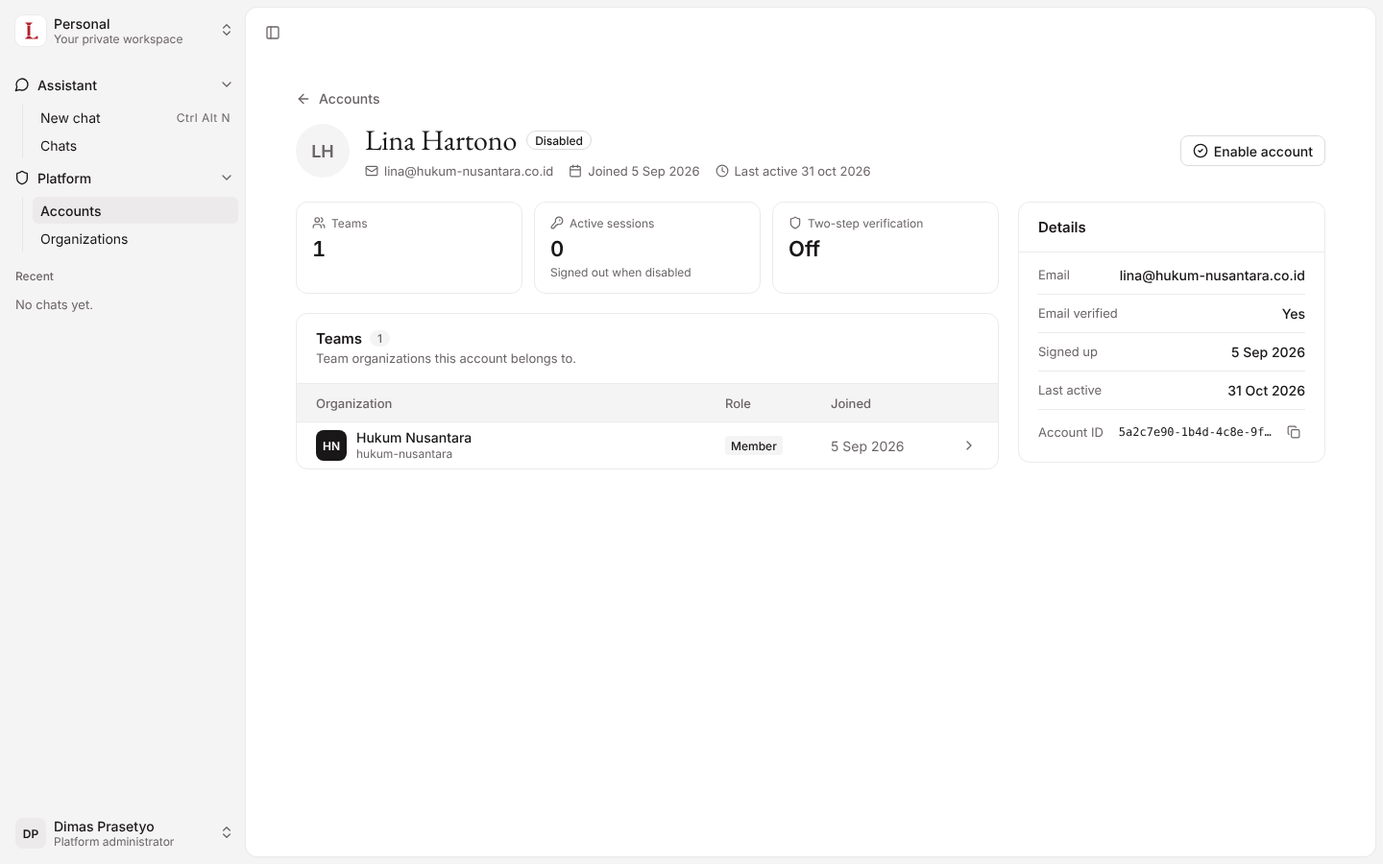
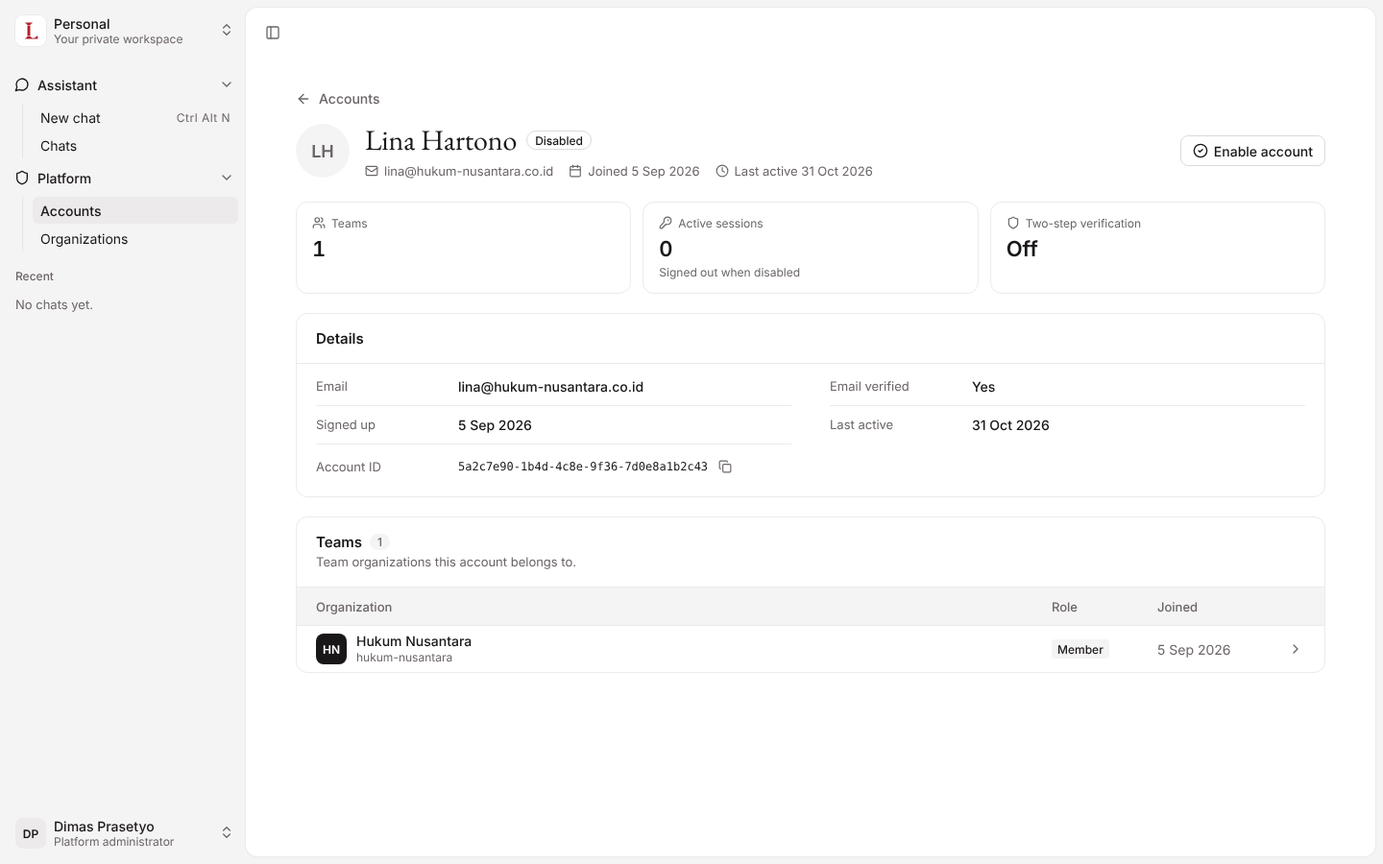
docs(f4.3): record page in one column with two-column Details, sticky interactive floating action bar in the kit
Claude-Session: https://claude.ai/code/session_01XeskNDwAETUV7tAfJw72N6

diff --git a/docs/design/f4.1-prototype/source/prototype.html b/docs/design/f4.1-prototype/source/prototype.html
@@ -364,7 +364,7 @@ mark{background:var(--mark);color:inherit;border-radius:3px;padding:0 2px}
 .dv-tag{display:inline-flex;align-items:center;height:20px;padding:0 6px;border-radius:4px;background:var(--muted);font-size:12px;font-weight:500;color:var(--fg)}
 .dv-dot{display:inline-flex;align-items:center;gap:6px}.dv-dot::before{content:'';width:6px;height:6px;border-radius:999px;background:var(--mfg)}.dv-dot.ok::before{background:#2F8F5B}
 .dv-link{color:var(--fg);text-decoration:underline;text-underline-offset:3px;text-decoration-color:var(--input)}
-.dv-bar{position:absolute;left:50%;bottom:62px;transform:translateX(-50%);display:flex;align-items:center;gap:2px;padding:5px;border-radius:12px;background:var(--fg);color:var(--bg);box-shadow:0 12px 32px -10px rgba(8,6,6,.45);font-size:13px;z-index:15;white-space:nowrap}
+.dv-bar{position:sticky;bottom:20px;align-self:center;margin-top:-8px;display:flex;align-items:center;gap:2px;padding:5px;border-radius:12px;background:var(--fg);color:var(--bg);box-shadow:0 12px 32px -10px rgba(8,6,6,.45);font-size:13px;z-index:15;white-space:nowrap}
 .dv-bar .cnt{display:inline-flex;align-items:center;gap:8px;padding:0 10px 0 8px;font-weight:500}.dv-bar .cnt .dv-cb{border-color:var(--bg);background:var(--bg);color:var(--fg)}
 .dv-bar .sep{width:1px;height:18px;background:color-mix(in srgb,var(--bg) 22%,transparent);margin:0 4px}
 .dv-bar .bb{all:unset;display:inline-flex;align-items:center;gap:6px;height:30px;padding:0 10px;border-radius:8px;font-weight:500;cursor:pointer}.dv-bar .bb:hover{background:color-mix(in srgb,var(--bg) 14%,transparent)}
@@ -385,8 +385,8 @@ mark{background:var(--mark);color:inherit;border-radius:3px;padding:0 2px}
 .dv-dh .meta{font-size:13px;color:var(--mfg);display:flex;gap:16px;flex-wrap:wrap}.dv-dh .meta span{display:inline-flex;align-items:center;gap:6px}
 .dv-dh .acts{display:flex;gap:8px;align-items:center;flex:none;position:relative}
 .dv-split{display:grid;grid-template-columns:minmax(0,1fr) 320px;gap:20px;align-items:start}.dv-split>div{display:flex;flex-direction:column;gap:20px;min-width:0}
-.dv-props{padding:4px 20px 8px}.dv-prop{display:flex;justify-content:space-between;align-items:center;gap:16px;padding:11px 0;border-top:1px solid var(--border);font-size:14px;min-width:0}.dv-prop:first-child{border-top:0}
-.dv-prop span{color:var(--mfg);font-size:13px;flex:none}.dv-prop b{font-weight:500;text-align:right;min-width:0;overflow:hidden;text-overflow:ellipsis;white-space:nowrap}.dv-prop b.cp{display:flex;align-items:center;gap:6px}
+.dv-props{padding:4px 20px 8px;display:grid;grid-template-columns:1fr 1fr;column-gap:40px}.dv-props .dv-prop:nth-child(2){border-top:0}.dv-prop{display:grid;grid-template-columns:132px minmax(0,1fr);align-items:center;gap:16px;padding:11px 0;border-top:1px solid var(--border);font-size:14px;min-width:0}.dv-prop:first-child{border-top:0}
+.dv-prop span{color:var(--mfg);font-size:13px;flex:none}.dv-prop b{font-weight:500;text-align:left;min-width:0;overflow:hidden;text-overflow:ellipsis;white-space:nowrap}.dv-prop b.cp{display:flex;align-items:center;gap:6px}
 .dv-prop code{font-family:ui-monospace,SFMono-Regular,Menlo,monospace;font-size:12px;font-weight:400;overflow:hidden;text-overflow:ellipsis}.dv-prop .ib{width:24px;height:24px;color:var(--mfg);flex:none}
 .dv-acts{padding:4px 20px 16px}.dv-act{display:flex;gap:12px;align-items:flex-start;padding:12px 0;border-top:1px solid var(--border)}.dv-act:first-child{border-top:0}
 .dv-act .ic{width:32px;height:32px;border-radius:8px;background:var(--muted);display:flex;align-items:center;justify-content:center;flex:none}.dv-act.dz .ic{background:var(--flag);color:var(--redtext)}
@@ -401,11 +401,11 @@ mark{background:var(--mark);color:inherit;border-radius:3px;padding:0 2px}
 .dv-mrow .t{flex:1;min-width:0;display:flex;flex-direction:column;gap:3px;line-height:1.3}.dv-mrow b{font-weight:500;font-size:14px;overflow:hidden;text-overflow:ellipsis;white-space:nowrap}
 .dv-mrow small{font-size:12px;color:var(--mfg);overflow:hidden;text-overflow:ellipsis;white-space:nowrap}.dv-mrow .s{font-size:13px;color:var(--mfg);display:flex;align-items:center;gap:6px;flex-wrap:wrap}
 .app.mobile .dv-foot{padding:10px 12px 10px 16px}.app.mobile .dv-foot .dv-per{display:none}
-.app.mobile .dv-bar{bottom:60px}
+.app.mobile .dv-bar{bottom:16px;max-width:calc(100% - 8px);overflow-x:auto}.dv-bar[hidden]{display:none}
 .app.mobile .dv-stats{grid-template-columns:1fr!important;gap:8px}.app.mobile .dv-stat{display:grid;grid-template-columns:minmax(0,1fr) auto;column-gap:12px;row-gap:2px;align-items:center;padding:12px 14px}.app.mobile .dv-stat b{grid-column:2;grid-row:1/3;font-size:18px;text-align:right}.app.mobile .dv-stat .l{grid-column:1;grid-row:1}.app.mobile .dv-stat small{grid-column:1;grid-row:2;margin:0}
 .app.mobile .dv-dh{flex-wrap:wrap}.app.mobile .dv-dh .av{width:48px;height:48px;font-size:16px}.app.mobile .dv-dh .ptitle{font-size:26px}.app.mobile .dv-dh .acts{width:100%;flex-wrap:wrap}
 .app.mobile .dv-split{grid-template-columns:1fr}
-.app.mobile .dv-props,.app.mobile .dv-acts{padding-left:16px;padding-right:16px}
+.app.mobile .dv-props,.app.mobile .dv-acts{padding-left:16px;padding-right:16px}.app.mobile .dv-props{grid-template-columns:1fr}.app.mobile .dv-prop{grid-template-columns:104px minmax(0,1fr);gap:12px}.app.mobile .dv-props .dv-prop:nth-child(2){border-top:1px solid var(--border)}
 .dv-tabs{display:flex;gap:4px;border-bottom:1px solid var(--border);margin-bottom:-4px}
 .dv-tabs button{all:unset;display:inline-flex;align-items:center;gap:8px;height:40px;padding:0 4px;margin-right:16px;font-size:14px;font-weight:500;color:var(--mfg);border-bottom:2px solid transparent;margin-bottom:-1px;cursor:pointer}
 .dv-tabs button.on{color:var(--fg);border-bottom-color:var(--fg)}.dv-tabs .n{font-size:12px;font-weight:500;background:var(--muted);color:var(--mfg);border-radius:999px;padding:1px 8px}
@@ -816,18 +816,18 @@ function dvTable({cols,rows,select=false,selected=[],hover=-1}){
  return `<table class="dv-table">${head}<tbody>${body}</tbody></table>${mob}`;
 }
 const dvFoot=({count,page=1,pages=1,per=10})=>`<div class="dv-foot"><span>${count}</span><span class="sp"></span><span class="dv-per">Rows per page <span class="dv-sel">${per}${sv('chev',14)}</span></span><span>Page ${page} of ${pages}</span><span class="dv-pg"><button class="ib ${page===1?'off':''}" aria-label="First page">${sv('left2',16)}</button><button class="ib ${page===1?'off':''}" aria-label="Previous page">${sv('left',16)}</button><button class="ib ${page===pages?'off':''}" aria-label="Next page">${sv('right',16)}</button><button class="ib ${page===pages?'off':''}" aria-label="Last page">${sv('right2',16)}</button></span></div>`;
-const dvBar=(n,acts)=>`<div class="dv-bar" role="toolbar" aria-label="Selected rows"><span class="cnt">${dvCb(true)}${n} selected</span><span class="sep"></span>${acts.map(([ic,t,dz])=>`<button class="bb ${dz?'dz':''}">${sv(ic,15)}${t}</button>`).join('')}<span class="sep"></span><button class="bb x" aria-label="Clear selection">${sv('x',15)}</button></div>`;
+const dvBar=(n,acts)=>`<div class="dv-bar" role="toolbar" aria-label="Selected rows" ${n?'':'hidden'}><span class="cnt">${dvCb(true)}<span class="k">${n}</span> selected</span><span class="sep"></span>${acts.map(([ic,t,dz])=>`<button class="bb ${dz?'dz':''}">${sv(ic,15)}${t}</button>`).join('')}<span class="sep"></span><button class="bb x" aria-label="Clear selection">${sv('x',15)}</button></div>`;
 const dvEmpty=(icon,title,text,btn='')=>`<div class="dv-empty"><span class="ic">${sv(icon,20)}</span><h3>${title}</h3><p>${text}</p>${btn}</div>`;
 const perr=t=>`<div class="erow" role="alert"><span class="ic">${sv('alert',18)}</span><span class="tx">${t}</span><button class="btn outline" style="flex:none">${sv('regen',14)}Try again</button></div>`;
 const dvError=t=>`<div class="dv-err">${perr(t)}</div>`;
 const dvSkel=(cols,n,widths)=>({cols,rows:Array.from({length:n},(_,i)=>({cells:cols.map((c,j)=>c.cls==='w-menu'?'':`<div class="skel" style="width:${widths[(i+j)%widths.length]}%;${c.num?'margin-left:auto':''}"></div>`),m:{title:`<div class="skel" style="width:${widths[i%widths.length]}%;height:14px"></div>`,meta:`<div class="skel" style="width:40%"></div>`,menu:false}}))});
-const dvCard=({head='',tool='',table='',body='',bar='',foot=''})=>`<section class="dv-card">${head}${tool}${table}${body}${foot}${bar}</section>`;
+const dvCard=({head='',tool='',table='',body='',bar='',foot=''})=>`<section class="dv-card">${head}${tool}${table}${body}${foot}</section>${bar}`;
 const dvCHead=(t,d='',right='',{n='',ruled=false}={})=>`<div class="dv-chead ${ruled?'ruled':''}"><div><h2>${t}${n!==''?`<span class="n">${n}</span>`:''}</h2>${d?`<p>${d}</p>`:''}</div>${right}</div>`;
 const dvTabs=(tabs,cur)=>`<div class="dv-tabs" role="tablist">${tabs.map(([t,n])=>`<button role="tab" aria-selected="${t===cur}" class="${t===cur?'on':''}">${t}${n!==undefined?`<span class="n">${n}</span>`:''}</button>`).join('')}</div>`;
 const dvPage=(title,desc,acts,parts)=>`<div class="dv-page"><div class="dv-ph"><div><h1 class="ptitle">${title}</h1>${desc?`<p>${desc}</p>`:''}</div>${acts?`<div class="acts">${acts}</div>`:''}</div>${parts}</div>`;
 const dvHeader=({back,av,sq,title,badges='',meta=[],acts=''})=>`${back?`<a class="slink" href="#" style="align-self:flex-start;margin:0 0 -8px -10px">${sv('back',16)}${back}</a>`:''}<div class="dv-dh"><span class="av ${sq?'sq':''}">${av}</span><div class="mid"><div class="row"><h1 class="ptitle">${title}</h1>${badges}</div><div class="meta">${meta.map(([ic,t])=>`<span>${sv(ic,14)}${t}</span>`).join('')}</div></div>${acts?`<div class="acts">${acts}</div>`:''}</div>`;
 const dvStats=items=>`<div class="dv-stats" style="--n:${items.length}">${items.map(([ic,l,v,s])=>`<div class="dv-stat"><span class="l">${sv(ic,14)}${l}</span><b>${v}</b>${s?`<small>${s}</small>`:''}</div>`).join('')}</div>`;
-const dvSplit=(main,aside)=>`<div class="dv-split"><div>${main}</div><div>${aside}</div></div>`;
+const dvSplit=(main,aside)=>{const m=main.match(/^(<div class="dv-stats"[\s\S]*?<\/div><\/div>)([\s\S]*)$/);return m?m[1]+aside+m[2]:aside+main;};
 const dvProps=(title,rows)=>dvCard({head:dvCHead(title,'','',{ruled:true}),body:`<div class="dv-props">${rows.map(([k,v,copy])=>`<div class="dv-prop"><span>${k}</span><b class="${copy?'cp':''}">${copy?`<code>${v}</code><button class="ib" aria-label="Copy ${k}">${sv('copy',14)}</button>`:v}</b></div>`).join('')}</div>`});
 const btn=(ic,t,cls='outline')=>`<button class="btn ${cls}">${ic?sv(ic,16):''}${t}</button>`;
 
@@ -888,7 +888,7 @@ function platformAccountDetail(kind){
   table:teams.length?dvTable({cols:tcols,rows:teams.map(([n,s,i,r,j])=>({cells:[C.id(n,s,{av:i,sq:true}),C.tag(r),j,C.open(n)],m:{lead:`<span class="dv-av sq">${i}</span>`,title:n,sub:s,badge:C.tag(r),meta:`Joined ${j}`,menu:false}}))}):'',
   body:teams.length?'':`<div style="border-top:1px solid var(--border)">${dvEmpty('users','No teams yet','This account is not a member of any team.')}</div>`});
  const props=dvProps('Details',[['Email',a.e],['Email verified',kind==='unverified'?C.badge('No','warn'):'Yes'],['Signed up',a.j],['Last active',la],['Account ID',id,true]]);
- return `<div class="dv-page">${dvHeader({back:'Accounts',av:ini(a.n),title:a.n,badges:C.badge(...PSTAT[a.st]),meta:[['mail',a.e],['calendar',`Joined ${a.j}`],['clock',`Last active ${la==='Never'?'never':la.toLowerCase()}`]],acts})}${dvSplit(dvStats(stats)+teamsCard,props)}</div>`;
+ return `<div class="dv-page">${dvHeader({back:'Accounts',av:ini(a.n),title:a.n,badges:C.badge(...PSTAT[a.st]),meta:[['mail',a.e],['calendar',`Joined ${a.j}`],['clock',`Last active ${la==='Never'?'never':la.replace('Today','today')}`]],acts})}${dvSplit(dvStats(stats)+teamsCard,props)}</div>`;
 }
 const PO=[['Hukum Nusantara','hukum-nusantara','HN','active',3,'ayu@hukum-nusantara.co.id','2 Sep 2026'],['Pro Bono Clinic','pro-bono-clinic','PB','active',5,'putri@probono.or.id','18 Sep 2026'],['Harbor Legal Partners','harbor-legal-partners','HL','provisioning',0,'owner@harborlegal.co.id','14 Nov 2026'],['Kantor Hukum Wibowo','kantor-hukum-wibowo','KW','provisioning',0,'andi@khwibowo.co.id','13 Nov 2026'],['Sinar Hukum','sinar-hukum','SH','provisioning',0,'bagus@sinarhukum.co.id','5 Nov 2026']];
 const orgCols=[{label:'Organization'},{label:'State',w:'128px'},{label:'Members',w:'96px',num:true},{label:'Owner',mut:true},{label:'Created',w:'124px',mut:true,sort:'down'},{label:'',w:'56px',cls:'w-menu'}];
@@ -945,11 +945,20 @@ function platformScreen(st){
 function kitPage(){
  const cols=[{label:'Record'},{label:'Status',w:'116px'},{label:'Tag',w:'96px'},{label:'State',w:'84px'},{label:'Count',w:'72px',num:true},{label:'Amount',w:'130px',num:true},{label:'Date',w:'116px',mut:true,sort:'down'},{label:'',w:'56px',cls:'w-menu'}];
  const rows=[['Ayu Wardani','ayu@hukum-nusantara.co.id','AW','Active','','Owner',true,'12','Rp 1.250.000','2 Sep 2026'],['Bagus Santoso','bagus@sinarhukum.co.id','BS','Unverified','warn','Member',false,'0','Rp 0','12 Nov 2026'],['Lina Hartono','lina@hukum-nusantara.co.id','LH','Disabled','off','Member',false,'3','Rp 48.000','5 Sep 2026'],['Putri Anggraini','putri@probono.or.id','PA','Active','','Admin',true,'7','Rp 310.000','18 Sep 2026']].map(([n,e,i,b,k,t,on,c,a,d])=>({cells:[C.id(n,e,{av:i}),C.badge(b,k),C.tag(t),C.dot(on?'On':'Off',on),c,a,d,C.menu()],m:{lead:`<span class="dv-av">${i}</span>`,title:n,sub:e,badge:C.badge(b,k),meta:`${t} · ${c} · ${a}`}}));
- const table=dvCard({head:dvCHead('Data table','Title and count, toolbar, typed cells, selection with the floating action bar, paged footer.','',{n:4}),tool:dvTool({search:'Search',facets:[dvFacet('Status',['Active']),dvFacet('Tag')],reset:true,right:`<button class="dv-tbtn">${sv('columns',15)}Columns</button>${btn('plus','Primary action','primary')}`}),table:dvTable({cols,rows,select:true,selected:[0,3]}),foot:dvFoot({count:'4 records'}),bar:dvBar(2,[['download','Export'],['ban','Disable',true]])});
+ const table=dvCard({head:dvCHead('Data table','Select rows (click a checkbox) to see the floating action bar. It appears while at least one row is selected and stays pinned to the bottom of the view while you scroll.','',{n:4}),tool:dvTool({search:'Search',facets:[dvFacet('Status',['Active']),dvFacet('Tag')],reset:true,right:`<button class="dv-tbtn">${sv('columns',15)}Columns</button>${btn('plus','Primary action','primary')}`}),table:dvTable({cols,rows,select:true,selected:[0,3]}),foot:dvFoot({count:'4 records'}),bar:dvBar(2,[['download','Export'],['ban','Disable',true]])});
  const states=`<div style="display:grid;grid-template-columns:1fr 1fr;gap:16px">${dvCard({head:dvCHead('Empty state','','',{ruled:true}),body:dvEmpty('inbox','Nothing here yet','One sentence that says what will appear here and how.',btn('plus','Primary action','primary'))})}${dvCard({head:dvCHead('Failure state','','',{ruled:true}),body:dvError('We could not load records.')})}</div>`;
  const rec=`${dvHeader({back:'Back to list',av:'AW',title:'Record title',badges:C.badge('Active')+C.badge('Unverified','warn'),meta:[['mail','secondary@line.id'],['calendar','Created 2 Sep 2026'],['clock','Updated today']],acts:btn('out','Secondary')+btn('ban','Destructive','outline dtext')+btn('plus','Primary','primary')})}${dvSplit(dvStats([['users','Count','128','Supporting line'],['wallet','Money','Rp 1,25 jt'],['shield','State','On']])+dvCard({head:dvCHead('Related records','A table inside a record page uses the same parts.','',{n:2}),table:dvTable({cols:[{label:'Organization'},{label:'Role',w:'110px'},{label:'',w:'56px',cls:'w-menu'}],rows:[['Hukum Nusantara','hukum-nusantara','HN','Owner'],['Pro Bono Clinic','pro-bono-clinic','PB','Member']].map(([n,s,i,r])=>({cells:[C.id(n,s,{av:i,sq:true}),C.tag(r),C.open(n)],m:{lead:`<span class="dv-av sq">${i}</span>`,title:n,sub:s,badge:C.tag(r),menu:false}}))})}),dvProps('Details',[['Text','Hukum Nusantara'],['Yes / no','Yes'],['Badge',C.badge('Unverified','warn')],['Date','2 Sep 2026'],['ID','3c8e1f6a-2b7d-4a90-8c15-e4d9b0a72f31',true]]))}`;
  return `<div class="dv-page"><div class="dv-ph"><div><h1 class="ptitle">Data views kit</h1><p>LEX-DS-001 §5.7. Every list and record page in Lexon is built from these parts. Reference only, not a capture state.</p></div></div>${dvTabs([['Tab one',248],['Tab two',2]],'Tab one')}${table}${states}<h2 style="margin:12px 0 0;font-size:13px;font-weight:600;color:var(--mfg);text-transform:uppercase;letter-spacing:.06em">Record page</h2>${rec}</div>`;
 }
+
+document.addEventListener('click',e=>{const cb=e.target.closest('.dv-table .dv-cb');if(!cb)return;const table=cb.closest('.dv-table');const card=table.closest('.dv-card');const bar=card&&card.nextElementSibling&&card.nextElementSibling.classList.contains('dv-bar')?card.nextElementSibling:null;
+ const set=(el,on)=>{el.classList.toggle('on',on);el.setAttribute('aria-checked',on);el.innerHTML=on?sv('check',12):'';};
+ const rows=[...table.querySelectorAll('tbody tr')];
+ if(cb.closest('thead')){const on=!cb.classList.contains('on');set(cb,on);rows.forEach(r=>{set(r.querySelector('.dv-cb'),on);r.classList.toggle('sel',on);});}
+ else {const on=!cb.classList.contains('on');set(cb,on);cb.closest('tr').classList.toggle('sel',on);}
+ const n=rows.filter(r=>r.classList.contains('sel')).length;set(table.querySelector('thead .dv-cb'),n===rows.length&&n>0);
+ if(bar){bar.hidden=n===0;bar.querySelector('.k').textContent=n;}});
+document.addEventListener('click',e=>{const x=e.target.closest('.dv-bar .x');if(!x)return;const bar=x.closest('.dv-bar');const card=bar.previousElementSibling;card.querySelectorAll('.dv-cb.on').forEach(c=>{c.classList.remove('on');c.setAttribute('aria-checked','false');c.innerHTML='';});card.querySelectorAll('tr.sel').forEach(r=>r.classList.remove('sel'));bar.hidden=true;});
 
 const GROUPS=[
  ['Auth',['sign-in','sign-in-field-errors','sign-in-form-alert','sign-in-pending','sign-up','forgot-password','forgot-password-sent','reset-password','reset-password-invalid','verify-email','two-factor','accept-invitation','accept-invitation-declined','accept-invitation-unavailable','admin-setup','admin-setup-activate','admin-setup-unavailable','onboarding','onboarding-invitations','onboarding-team']],

diff --git a/docs/design/f4.1-prototype/source/prototype.src.html b/docs/design/f4.1-prototype/source/prototype.src.html
@@ -364,7 +364,7 @@ mark{background:var(--mark);color:inherit;border-radius:3px;padding:0 2px}
 .dv-tag{display:inline-flex;align-items:center;height:20px;padding:0 6px;border-radius:4px;background:var(--muted);font-size:12px;font-weight:500;color:var(--fg)}
 .dv-dot{display:inline-flex;align-items:center;gap:6px}.dv-dot::before{content:'';width:6px;height:6px;border-radius:999px;background:var(--mfg)}.dv-dot.ok::before{background:#2F8F5B}
 .dv-link{color:var(--fg);text-decoration:underline;text-underline-offset:3px;text-decoration-color:var(--input)}
-.dv-bar{position:absolute;left:50%;bottom:62px;transform:translateX(-50%);display:flex;align-items:center;gap:2px;padding:5px;border-radius:12px;background:var(--fg);color:var(--bg);box-shadow:0 12px 32px -10px rgba(8,6,6,.45);font-size:13px;z-index:15;white-space:nowrap}
+.dv-bar{position:sticky;bottom:20px;align-self:center;margin-top:-8px;display:flex;align-items:center;gap:2px;padding:5px;border-radius:12px;background:var(--fg);color:var(--bg);box-shadow:0 12px 32px -10px rgba(8,6,6,.45);font-size:13px;z-index:15;white-space:nowrap}
 .dv-bar .cnt{display:inline-flex;align-items:center;gap:8px;padding:0 10px 0 8px;font-weight:500}.dv-bar .cnt .dv-cb{border-color:var(--bg);background:var(--bg);color:var(--fg)}
 .dv-bar .sep{width:1px;height:18px;background:color-mix(in srgb,var(--bg) 22%,transparent);margin:0 4px}
 .dv-bar .bb{all:unset;display:inline-flex;align-items:center;gap:6px;height:30px;padding:0 10px;border-radius:8px;font-weight:500;cursor:pointer}.dv-bar .bb:hover{background:color-mix(in srgb,var(--bg) 14%,transparent)}
@@ -385,8 +385,8 @@ mark{background:var(--mark);color:inherit;border-radius:3px;padding:0 2px}
 .dv-dh .meta{font-size:13px;color:var(--mfg);display:flex;gap:16px;flex-wrap:wrap}.dv-dh .meta span{display:inline-flex;align-items:center;gap:6px}
 .dv-dh .acts{display:flex;gap:8px;align-items:center;flex:none;position:relative}
 .dv-split{display:grid;grid-template-columns:minmax(0,1fr) 320px;gap:20px;align-items:start}.dv-split>div{display:flex;flex-direction:column;gap:20px;min-width:0}
-.dv-props{padding:4px 20px 8px}.dv-prop{display:flex;justify-content:space-between;align-items:center;gap:16px;padding:11px 0;border-top:1px solid var(--border);font-size:14px;min-width:0}.dv-prop:first-child{border-top:0}
-.dv-prop span{color:var(--mfg);font-size:13px;flex:none}.dv-prop b{font-weight:500;text-align:right;min-width:0;overflow:hidden;text-overflow:ellipsis;white-space:nowrap}.dv-prop b.cp{display:flex;align-items:center;gap:6px}
+.dv-props{padding:4px 20px 8px;display:grid;grid-template-columns:1fr 1fr;column-gap:40px}.dv-props .dv-prop:nth-child(2){border-top:0}.dv-prop{display:grid;grid-template-columns:132px minmax(0,1fr);align-items:center;gap:16px;padding:11px 0;border-top:1px solid var(--border);font-size:14px;min-width:0}.dv-prop:first-child{border-top:0}
+.dv-prop span{color:var(--mfg);font-size:13px;flex:none}.dv-prop b{font-weight:500;text-align:left;min-width:0;overflow:hidden;text-overflow:ellipsis;white-space:nowrap}.dv-prop b.cp{display:flex;align-items:center;gap:6px}
 .dv-prop code{font-family:ui-monospace,SFMono-Regular,Menlo,monospace;font-size:12px;font-weight:400;overflow:hidden;text-overflow:ellipsis}.dv-prop .ib{width:24px;height:24px;color:var(--mfg);flex:none}
 .dv-acts{padding:4px 20px 16px}.dv-act{display:flex;gap:12px;align-items:flex-start;padding:12px 0;border-top:1px solid var(--border)}.dv-act:first-child{border-top:0}
 .dv-act .ic{width:32px;height:32px;border-radius:8px;background:var(--muted);display:flex;align-items:center;justify-content:center;flex:none}.dv-act.dz .ic{background:var(--flag);color:var(--redtext)}
@@ -401,11 +401,11 @@ mark{background:var(--mark);color:inherit;border-radius:3px;padding:0 2px}
 .dv-mrow .t{flex:1;min-width:0;display:flex;flex-direction:column;gap:3px;line-height:1.3}.dv-mrow b{font-weight:500;font-size:14px;overflow:hidden;text-overflow:ellipsis;white-space:nowrap}
 .dv-mrow small{font-size:12px;color:var(--mfg);overflow:hidden;text-overflow:ellipsis;white-space:nowrap}.dv-mrow .s{font-size:13px;color:var(--mfg);display:flex;align-items:center;gap:6px;flex-wrap:wrap}
 .app.mobile .dv-foot{padding:10px 12px 10px 16px}.app.mobile .dv-foot .dv-per{display:none}
-.app.mobile .dv-bar{bottom:60px}
+.app.mobile .dv-bar{bottom:16px;max-width:calc(100% - 8px);overflow-x:auto}.dv-bar[hidden]{display:none}
 .app.mobile .dv-stats{grid-template-columns:1fr!important;gap:8px}.app.mobile .dv-stat{display:grid;grid-template-columns:minmax(0,1fr) auto;column-gap:12px;row-gap:2px;align-items:center;padding:12px 14px}.app.mobile .dv-stat b{grid-column:2;grid-row:1/3;font-size:18px;text-align:right}.app.mobile .dv-stat .l{grid-column:1;grid-row:1}.app.mobile .dv-stat small{grid-column:1;grid-row:2;margin:0}
 .app.mobile .dv-dh{flex-wrap:wrap}.app.mobile .dv-dh .av{width:48px;height:48px;font-size:16px}.app.mobile .dv-dh .ptitle{font-size:26px}.app.mobile .dv-dh .acts{width:100%;flex-wrap:wrap}
 .app.mobile .dv-split{grid-template-columns:1fr}
-.app.mobile .dv-props,.app.mobile .dv-acts{padding-left:16px;padding-right:16px}
+.app.mobile .dv-props,.app.mobile .dv-acts{padding-left:16px;padding-right:16px}.app.mobile .dv-props{grid-template-columns:1fr}.app.mobile .dv-prop{grid-template-columns:104px minmax(0,1fr);gap:12px}.app.mobile .dv-props .dv-prop:nth-child(2){border-top:1px solid var(--border)}
 .dv-tabs{display:flex;gap:4px;border-bottom:1px solid var(--border);margin-bottom:-4px}
 .dv-tabs button{all:unset;display:inline-flex;align-items:center;gap:8px;height:40px;padding:0 4px;margin-right:16px;font-size:14px;font-weight:500;color:var(--mfg);border-bottom:2px solid transparent;margin-bottom:-1px;cursor:pointer}
 .dv-tabs button.on{color:var(--fg);border-bottom-color:var(--fg)}.dv-tabs .n{font-size:12px;font-weight:500;background:var(--muted);color:var(--mfg);border-radius:999px;padding:1px 8px}
@@ -816,18 +816,18 @@ function dvTable({cols,rows,select=false,selected=[],hover=-1}){
  return `<table class="dv-table">${head}<tbody>${body}</tbody></table>${mob}`;
 }
 const dvFoot=({count,page=1,pages=1,per=10})=>`<div class="dv-foot"><span>${count}</span><span class="sp"></span><span class="dv-per">Rows per page <span class="dv-sel">${per}${sv('chev',14)}</span></span><span>Page ${page} of ${pages}</span><span class="dv-pg"><button class="ib ${page===1?'off':''}" aria-label="First page">${sv('left2',16)}</button><button class="ib ${page===1?'off':''}" aria-label="Previous page">${sv('left',16)}</button><button class="ib ${page===pages?'off':''}" aria-label="Next page">${sv('right',16)}</button><button class="ib ${page===pages?'off':''}" aria-label="Last page">${sv('right2',16)}</button></span></div>`;
-const dvBar=(n,acts)=>`<div class="dv-bar" role="toolbar" aria-label="Selected rows"><span class="cnt">${dvCb(true)}${n} selected</span><span class="sep"></span>${acts.map(([ic,t,dz])=>`<button class="bb ${dz?'dz':''}">${sv(ic,15)}${t}</button>`).join('')}<span class="sep"></span><button class="bb x" aria-label="Clear selection">${sv('x',15)}</button></div>`;
+const dvBar=(n,acts)=>`<div class="dv-bar" role="toolbar" aria-label="Selected rows" ${n?'':'hidden'}><span class="cnt">${dvCb(true)}<span class="k">${n}</span> selected</span><span class="sep"></span>${acts.map(([ic,t,dz])=>`<button class="bb ${dz?'dz':''}">${sv(ic,15)}${t}</button>`).join('')}<span class="sep"></span><button class="bb x" aria-label="Clear selection">${sv('x',15)}</button></div>`;
 const dvEmpty=(icon,title,text,btn='')=>`<div class="dv-empty"><span class="ic">${sv(icon,20)}</span><h3>${title}</h3><p>${text}</p>${btn}</div>`;
 const perr=t=>`<div class="erow" role="alert"><span class="ic">${sv('alert',18)}</span><span class="tx">${t}</span><button class="btn outline" style="flex:none">${sv('regen',14)}Try again</button></div>`;
 const dvError=t=>`<div class="dv-err">${perr(t)}</div>`;
 const dvSkel=(cols,n,widths)=>({cols,rows:Array.from({length:n},(_,i)=>({cells:cols.map((c,j)=>c.cls==='w-menu'?'':`<div class="skel" style="width:${widths[(i+j)%widths.length]}%;${c.num?'margin-left:auto':''}"></div>`),m:{title:`<div class="skel" style="width:${widths[i%widths.length]}%;height:14px"></div>`,meta:`<div class="skel" style="width:40%"></div>`,menu:false}}))});
-const dvCard=({head='',tool='',table='',body='',bar='',foot=''})=>`<section class="dv-card">${head}${tool}${table}${body}${foot}${bar}</section>`;
+const dvCard=({head='',tool='',table='',body='',bar='',foot=''})=>`<section class="dv-card">${head}${tool}${table}${body}${foot}</section>${bar}`;
 const dvCHead=(t,d='',right='',{n='',ruled=false}={})=>`<div class="dv-chead ${ruled?'ruled':''}"><div><h2>${t}${n!==''?`<span class="n">${n}</span>`:''}</h2>${d?`<p>${d}</p>`:''}</div>${right}</div>`;
 const dvTabs=(tabs,cur)=>`<div class="dv-tabs" role="tablist">${tabs.map(([t,n])=>`<button role="tab" aria-selected="${t===cur}" class="${t===cur?'on':''}">${t}${n!==undefined?`<span class="n">${n}</span>`:''}</button>`).join('')}</div>`;
 const dvPage=(title,desc,acts,parts)=>`<div class="dv-page"><div class="dv-ph"><div><h1 class="ptitle">${title}</h1>${desc?`<p>${desc}</p>`:''}</div>${acts?`<div class="acts">${acts}</div>`:''}</div>${parts}</div>`;
 const dvHeader=({back,av,sq,title,badges='',meta=[],acts=''})=>`${back?`<a class="slink" href="#" style="align-self:flex-start;margin:0 0 -8px -10px">${sv('back',16)}${back}</a>`:''}<div class="dv-dh"><span class="av ${sq?'sq':''}">${av}</span><div class="mid"><div class="row"><h1 class="ptitle">${title}</h1>${badges}</div><div class="meta">${meta.map(([ic,t])=>`<span>${sv(ic,14)}${t}</span>`).join('')}</div></div>${acts?`<div class="acts">${acts}</div>`:''}</div>`;
 const dvStats=items=>`<div class="dv-stats" style="--n:${items.length}">${items.map(([ic,l,v,s])=>`<div class="dv-stat"><span class="l">${sv(ic,14)}${l}</span><b>${v}</b>${s?`<small>${s}</small>`:''}</div>`).join('')}</div>`;
-const dvSplit=(main,aside)=>`<div class="dv-split"><div>${main}</div><div>${aside}</div></div>`;
+const dvSplit=(main,aside)=>{const m=main.match(/^(<div class="dv-stats"[\s\S]*?<\/div><\/div>)([\s\S]*)$/);return m?m[1]+aside+m[2]:aside+main;};
 const dvProps=(title,rows)=>dvCard({head:dvCHead(title,'','',{ruled:true}),body:`<div class="dv-props">${rows.map(([k,v,copy])=>`<div class="dv-prop"><span>${k}</span><b class="${copy?'cp':''}">${copy?`<code>${v}</code><button class="ib" aria-label="Copy ${k}">${sv('copy',14)}</button>`:v}</b></div>`).join('')}</div>`});
 const btn=(ic,t,cls='outline')=>`<button class="btn ${cls}">${ic?sv(ic,16):''}${t}</button>`;
 
@@ -888,7 +888,7 @@ function platformAccountDetail(kind){
   table:teams.length?dvTable({cols:tcols,rows:teams.map(([n,s,i,r,j])=>({cells:[C.id(n,s,{av:i,sq:true}),C.tag(r),j,C.open(n)],m:{lead:`<span class="dv-av sq">${i}</span>`,title:n,sub:s,badge:C.tag(r),meta:`Joined ${j}`,menu:false}}))}):'',
   body:teams.length?'':`<div style="border-top:1px solid var(--border)">${dvEmpty('users','No teams yet','This account is not a member of any team.')}</div>`});
  const props=dvProps('Details',[['Email',a.e],['Email verified',kind==='unverified'?C.badge('No','warn'):'Yes'],['Signed up',a.j],['Last active',la],['Account ID',id,true]]);
- return `<div class="dv-page">${dvHeader({back:'Accounts',av:ini(a.n),title:a.n,badges:C.badge(...PSTAT[a.st]),meta:[['mail',a.e],['calendar',`Joined ${a.j}`],['clock',`Last active ${la==='Never'?'never':la.toLowerCase()}`]],acts})}${dvSplit(dvStats(stats)+teamsCard,props)}</div>`;
+ return `<div class="dv-page">${dvHeader({back:'Accounts',av:ini(a.n),title:a.n,badges:C.badge(...PSTAT[a.st]),meta:[['mail',a.e],['calendar',`Joined ${a.j}`],['clock',`Last active ${la==='Never'?'never':la.replace('Today','today')}`]],acts})}${dvSplit(dvStats(stats)+teamsCard,props)}</div>`;
 }
 const PO=[['Hukum Nusantara','hukum-nusantara','HN','active',3,'ayu@hukum-nusantara.co.id','2 Sep 2026'],['Pro Bono Clinic','pro-bono-clinic','PB','active',5,'putri@probono.or.id','18 Sep 2026'],['Harbor Legal Partners','harbor-legal-partners','HL','provisioning',0,'owner@harborlegal.co.id','14 Nov 2026'],['Kantor Hukum Wibowo','kantor-hukum-wibowo','KW','provisioning',0,'andi@khwibowo.co.id','13 Nov 2026'],['Sinar Hukum','sinar-hukum','SH','provisioning',0,'bagus@sinarhukum.co.id','5 Nov 2026']];
 const orgCols=[{label:'Organization'},{label:'State',w:'128px'},{label:'Members',w:'96px',num:true},{label:'Owner',mut:true},{label:'Created',w:'124px',mut:true,sort:'down'},{label:'',w:'56px',cls:'w-menu'}];
@@ -945,11 +945,20 @@ function platformScreen(st){
 function kitPage(){
  const cols=[{label:'Record'},{label:'Status',w:'116px'},{label:'Tag',w:'96px'},{label:'State',w:'84px'},{label:'Count',w:'72px',num:true},{label:'Amount',w:'130px',num:true},{label:'Date',w:'116px',mut:true,sort:'down'},{label:'',w:'56px',cls:'w-menu'}];
  const rows=[['Ayu Wardani','ayu@hukum-nusantara.co.id','AW','Active','','Owner',true,'12','Rp 1.250.000','2 Sep 2026'],['Bagus Santoso','bagus@sinarhukum.co.id','BS','Unverified','warn','Member',false,'0','Rp 0','12 Nov 2026'],['Lina Hartono','lina@hukum-nusantara.co.id','LH','Disabled','off','Member',false,'3','Rp 48.000','5 Sep 2026'],['Putri Anggraini','putri@probono.or.id','PA','Active','','Admin',true,'7','Rp 310.000','18 Sep 2026']].map(([n,e,i,b,k,t,on,c,a,d])=>({cells:[C.id(n,e,{av:i}),C.badge(b,k),C.tag(t),C.dot(on?'On':'Off',on),c,a,d,C.menu()],m:{lead:`<span class="dv-av">${i}</span>`,title:n,sub:e,badge:C.badge(b,k),meta:`${t} · ${c} · ${a}`}}));
- const table=dvCard({head:dvCHead('Data table','Title and count, toolbar, typed cells, selection with the floating action bar, paged footer.','',{n:4}),tool:dvTool({search:'Search',facets:[dvFacet('Status',['Active']),dvFacet('Tag')],reset:true,right:`<button class="dv-tbtn">${sv('columns',15)}Columns</button>${btn('plus','Primary action','primary')}`}),table:dvTable({cols,rows,select:true,selected:[0,3]}),foot:dvFoot({count:'4 records'}),bar:dvBar(2,[['download','Export'],['ban','Disable',true]])});
+ const table=dvCard({head:dvCHead('Data table','Select rows (click a checkbox) to see the floating action bar. It appears while at least one row is selected and stays pinned to the bottom of the view while you scroll.','',{n:4}),tool:dvTool({search:'Search',facets:[dvFacet('Status',['Active']),dvFacet('Tag')],reset:true,right:`<button class="dv-tbtn">${sv('columns',15)}Columns</button>${btn('plus','Primary action','primary')}`}),table:dvTable({cols,rows,select:true,selected:[0,3]}),foot:dvFoot({count:'4 records'}),bar:dvBar(2,[['download','Export'],['ban','Disable',true]])});
  const states=`<div style="display:grid;grid-template-columns:1fr 1fr;gap:16px">${dvCard({head:dvCHead('Empty state','','',{ruled:true}),body:dvEmpty('inbox','Nothing here yet','One sentence that says what will appear here and how.',btn('plus','Primary action','primary'))})}${dvCard({head:dvCHead('Failure state','','',{ruled:true}),body:dvError('We could not load records.')})}</div>`;
  const rec=`${dvHeader({back:'Back to list',av:'AW',title:'Record title',badges:C.badge('Active')+C.badge('Unverified','warn'),meta:[['mail','secondary@line.id'],['calendar','Created 2 Sep 2026'],['clock','Updated today']],acts:btn('out','Secondary')+btn('ban','Destructive','outline dtext')+btn('plus','Primary','primary')})}${dvSplit(dvStats([['users','Count','128','Supporting line'],['wallet','Money','Rp 1,25 jt'],['shield','State','On']])+dvCard({head:dvCHead('Related records','A table inside a record page uses the same parts.','',{n:2}),table:dvTable({cols:[{label:'Organization'},{label:'Role',w:'110px'},{label:'',w:'56px',cls:'w-menu'}],rows:[['Hukum Nusantara','hukum-nusantara','HN','Owner'],['Pro Bono Clinic','pro-bono-clinic','PB','Member']].map(([n,s,i,r])=>({cells:[C.id(n,s,{av:i,sq:true}),C.tag(r),C.open(n)],m:{lead:`<span class="dv-av sq">${i}</span>`,title:n,sub:s,badge:C.tag(r),menu:false}}))})}),dvProps('Details',[['Text','Hukum Nusantara'],['Yes / no','Yes'],['Badge',C.badge('Unverified','warn')],['Date','2 Sep 2026'],['ID','3c8e1f6a-2b7d-4a90-8c15-e4d9b0a72f31',true]]))}`;
  return `<div class="dv-page"><div class="dv-ph"><div><h1 class="ptitle">Data views kit</h1><p>LEX-DS-001 §5.7. Every list and record page in Lexon is built from these parts. Reference only, not a capture state.</p></div></div>${dvTabs([['Tab one',248],['Tab two',2]],'Tab one')}${table}${states}<h2 style="margin:12px 0 0;font-size:13px;font-weight:600;color:var(--mfg);text-transform:uppercase;letter-spacing:.06em">Record page</h2>${rec}</div>`;
 }
+
+document.addEventListener('click',e=>{const cb=e.target.closest('.dv-table .dv-cb');if(!cb)return;const table=cb.closest('.dv-table');const card=table.closest('.dv-card');const bar=card&&card.nextElementSibling&&card.nextElementSibling.classList.contains('dv-bar')?card.nextElementSibling:null;
+ const set=(el,on)=>{el.classList.toggle('on',on);el.setAttribute('aria-checked',on);el.innerHTML=on?sv('check',12):'';};
+ const rows=[...table.querySelectorAll('tbody tr')];
+ if(cb.closest('thead')){const on=!cb.classList.contains('on');set(cb,on);rows.forEach(r=>{set(r.querySelector('.dv-cb'),on);r.classList.toggle('sel',on);});}
+ else {const on=!cb.classList.contains('on');set(cb,on);cb.closest('tr').classList.toggle('sel',on);}
+ const n=rows.filter(r=>r.classList.contains('sel')).length;set(table.querySelector('thead .dv-cb'),n===rows.length&&n>0);
+ if(bar){bar.hidden=n===0;bar.querySelector('.k').textContent=n;}});
+document.addEventListener('click',e=>{const x=e.target.closest('.dv-bar .x');if(!x)return;const bar=x.closest('.dv-bar');const card=bar.previousElementSibling;card.querySelectorAll('.dv-cb.on').forEach(c=>{c.classList.remove('on');c.setAttribute('aria-checked','false');c.innerHTML='';});card.querySelectorAll('tr.sel').forEach(r=>r.classList.remove('sel'));bar.hidden=true;});
 
 const GROUPS=[
  ['Auth',['sign-in','sign-in-field-errors','sign-in-form-alert','sign-in-pending','sign-up','forgot-password','forgot-password-sent','reset-password','reset-password-invalid','verify-email','two-factor','accept-invitation','accept-invitation-declined','accept-invitation-unavailable','admin-setup','admin-setup-activate','admin-setup-unavailable','onboarding','onboarding-invitations','onboarding-team']],

diff --git a/docs/specs/LEXON-03-DESIGN-SYSTEM.md b/docs/specs/LEXON-03-DESIGN-SYSTEM.md
@@ -691,10 +691,12 @@ menu ⋯, open ›, copy, pagination) have an accessible name and a tooltip.
 - The whole row opens the record; the row menu holds the record's actions.
 - **Selection** (only for lists with bulk actions):
   - a 52px checkbox column; selected rows on `muted` at 70%;
-  - a **floating action bar** centered above the footer: `foreground`
-    surface, radius 12px, a checkbox and "N selected", a divider, icon and
-    label actions (destructive in `red-text`), a divider, and a clear (x)
-    button.
+  - a **floating action bar** that appears while at least one row is
+    selected. It sits centered just below the table card and stays pinned
+    20px above the bottom of the view while the page scrolls (sticky). It
+    has a `foreground` surface, radius 12px, a checkbox and "N selected", a
+    divider, icon and label actions (destructive in `red-text`), a divider,
+    and a clear (x) button that ends the selection.
 - **Footer** (padding 10px 16px 10px 20px, 13px `muted-foreground`, a 1px
   `border` above):
   - the count ("248 accounts");
@@ -723,22 +725,21 @@ menu ⋯, open ›, copy, pagination) have an accessible name and a tooltip.
   - actions on the right: outline actions with icons, destructive ones in
     `red-text`, and one primary at most.
   - Mobile: a 48px avatar, a 26px title, and the actions wrap under it.
-- **Body:** two columns, the main column and a 320px aside, 20px apart
-  (one column on mobile).
-- **Main column:**
-  - **Stat tiles:** one row of 2–4 tiles (1px `border`, radius 12px,
-    padding 14px 16px): a 12px icon-and-label line, a 22px semibold
-    value, and an optional 12px supporting line. Mobile: one tile per row,
-    label left and value right.
-  - **Related records:** a data table card with a title and count pill,
-    using the same table, states, and footer.
-  - **Forms** that act on the record (for example Replace owner email):
-    a card with a title, description, field, and an action with an icon.
-- **Aside:**
-  - a **Details** card: header with a 1px rule, then property rows (13px
-    `muted-foreground` label left, 14px weight 500 value right, one line,
-    ellipsis, a 1px `border` between rows);
-  - ids in a 12px mono face with a copy button.
+- **Body:** one column, every card full width, so the edges always line
+  up. The order is:
+  1. **Stat tiles:** one row of 2–4 tiles (1px `border`, radius 12px,
+     padding 14px 16px): a 12px icon-and-label line, a 22px semibold value,
+     and an optional 12px supporting line. Mobile: one tile per row, label
+     left and value right.
+  2. **Details card:** header with a 1px rule, then property rows in two
+     columns (one on mobile). Each row has a 13px `muted-foreground` label
+     in a 132px column (104px on mobile) and a 14px weight 500 value,
+     left-aligned, one line with an ellipsis, and a 1px `border` between
+     rows. Ids use a 12px mono face with a copy button.
+  3. **Related records:** a data table card with a title and count pill,
+     using the same table, states, and footer.
+  4. **Forms** that act on the record (for example Replace owner email):
+     a card with a title, description, field, and an action with an icon.
 - **Confirmations** use the dialog pattern (§5.5). The confirm button
   carries its icon and is `primary`, or `destructive-fill` when it removes
   access or data.
